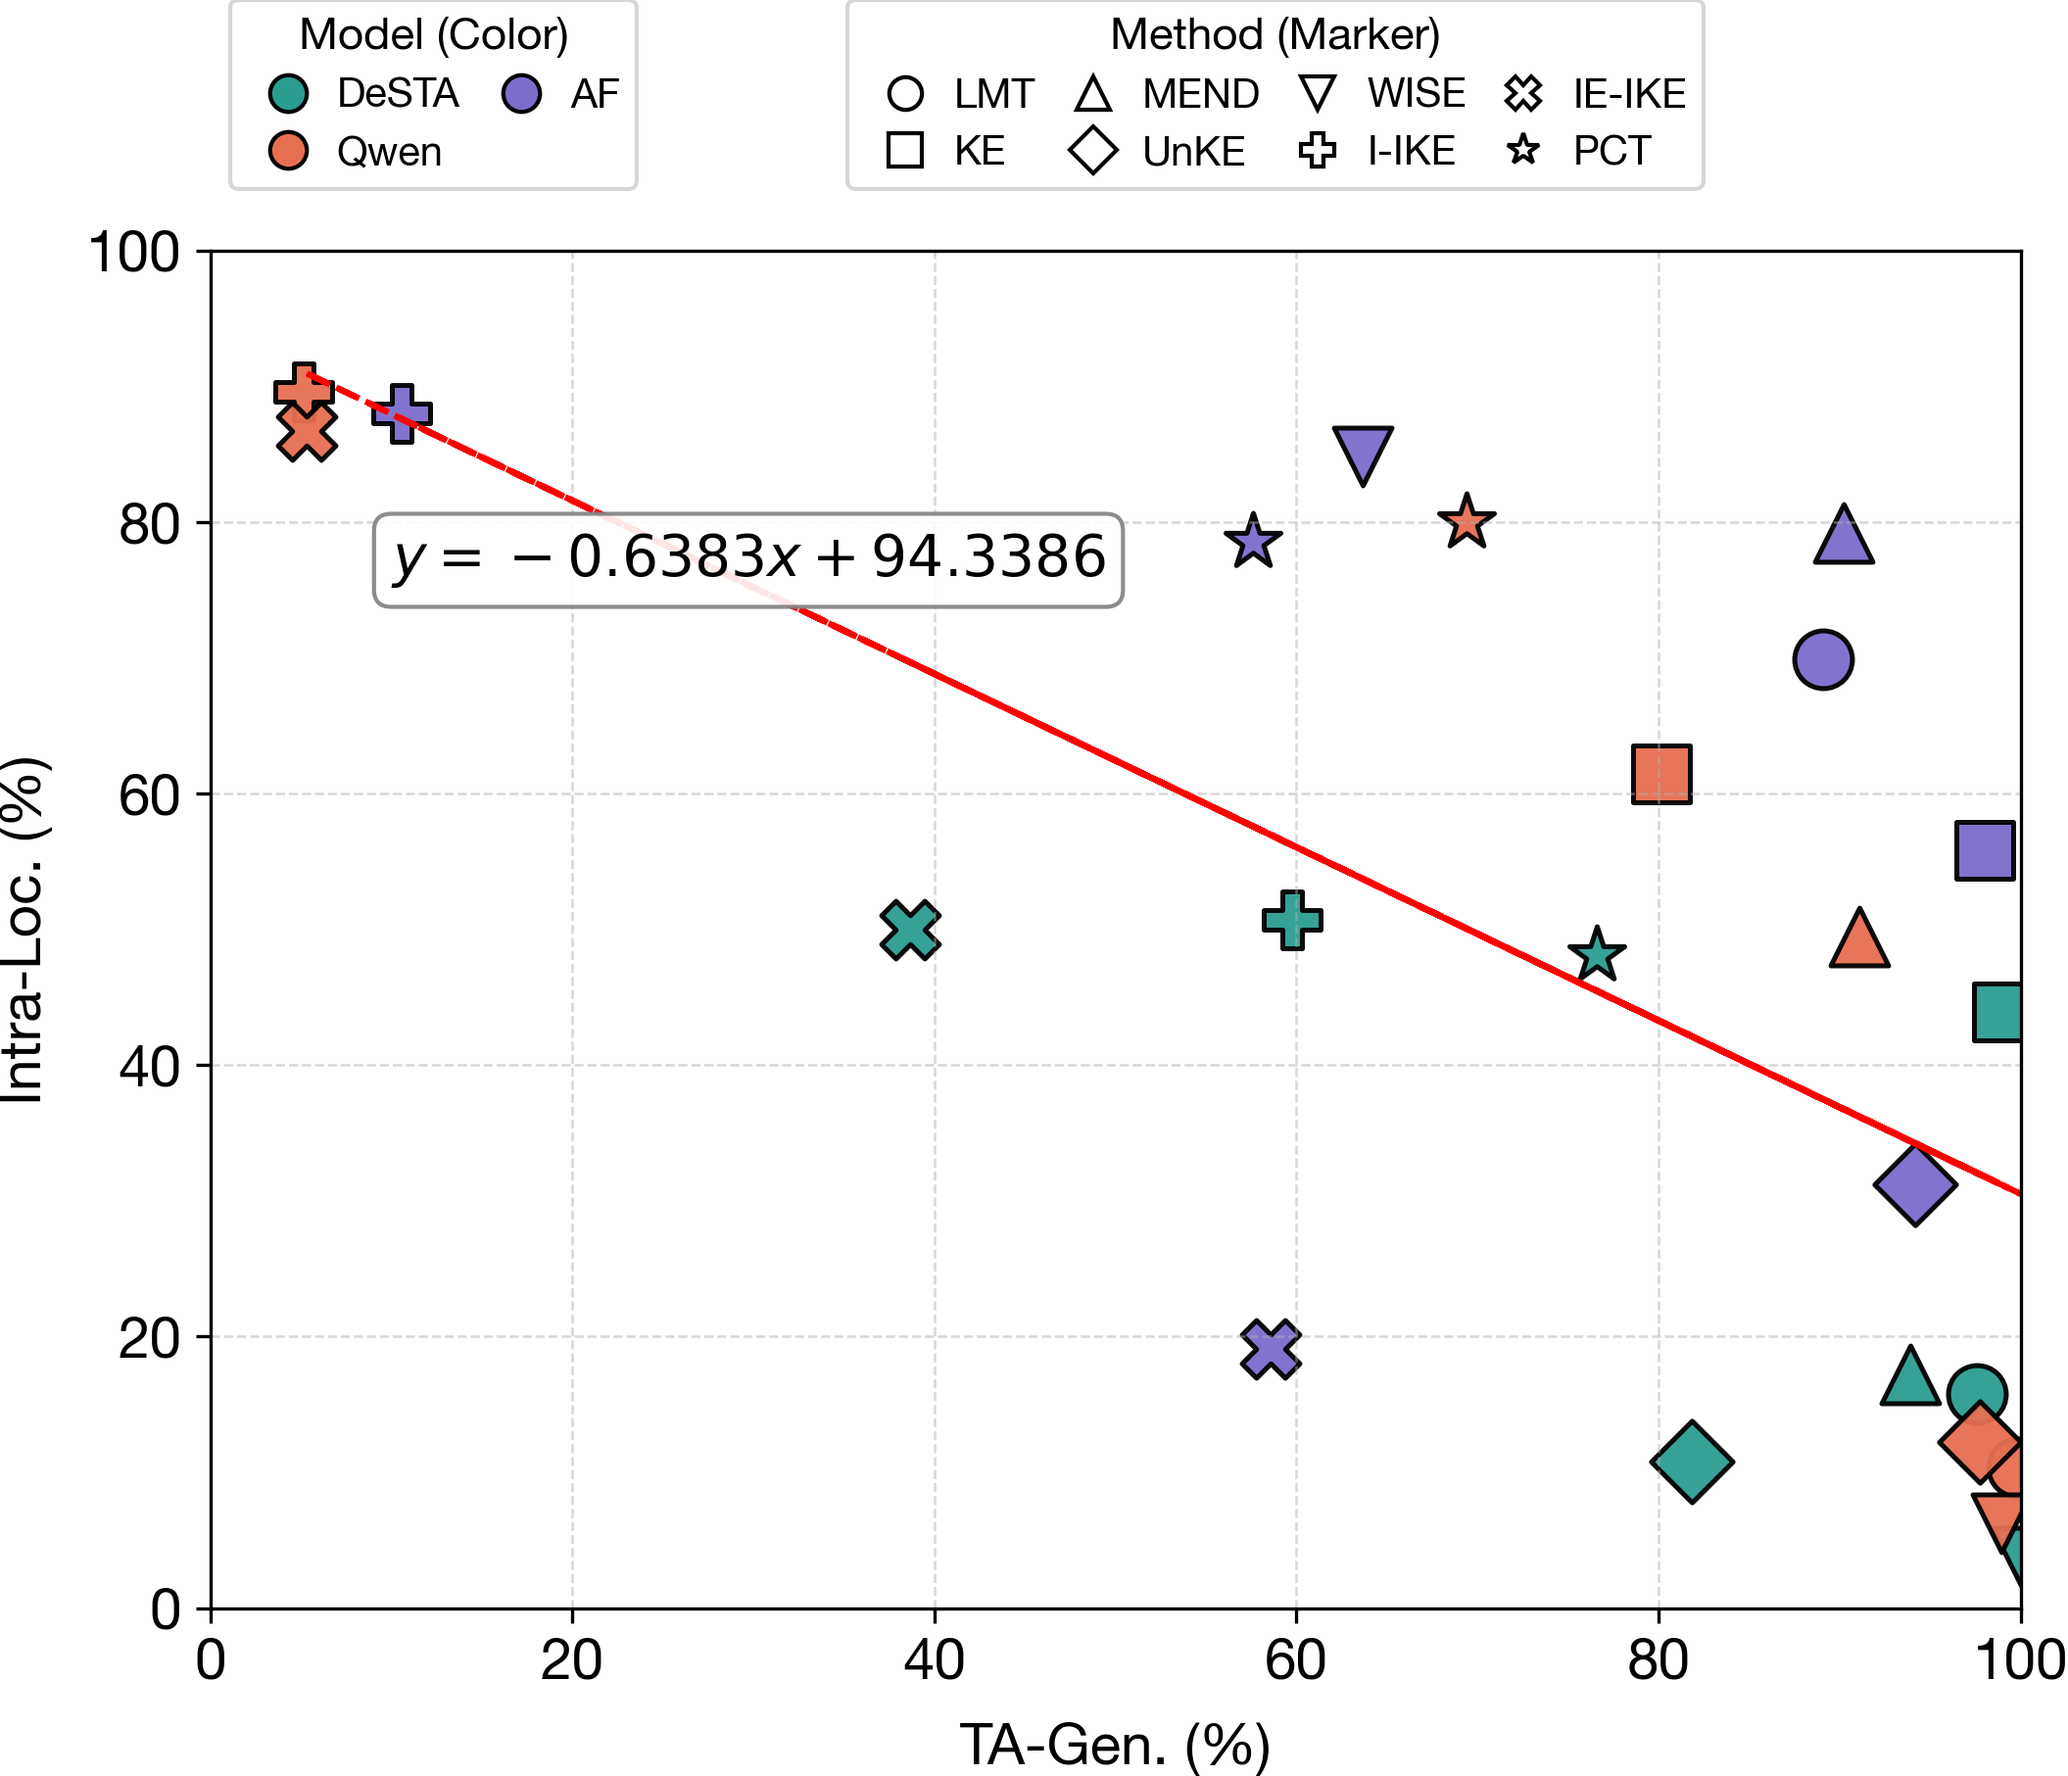
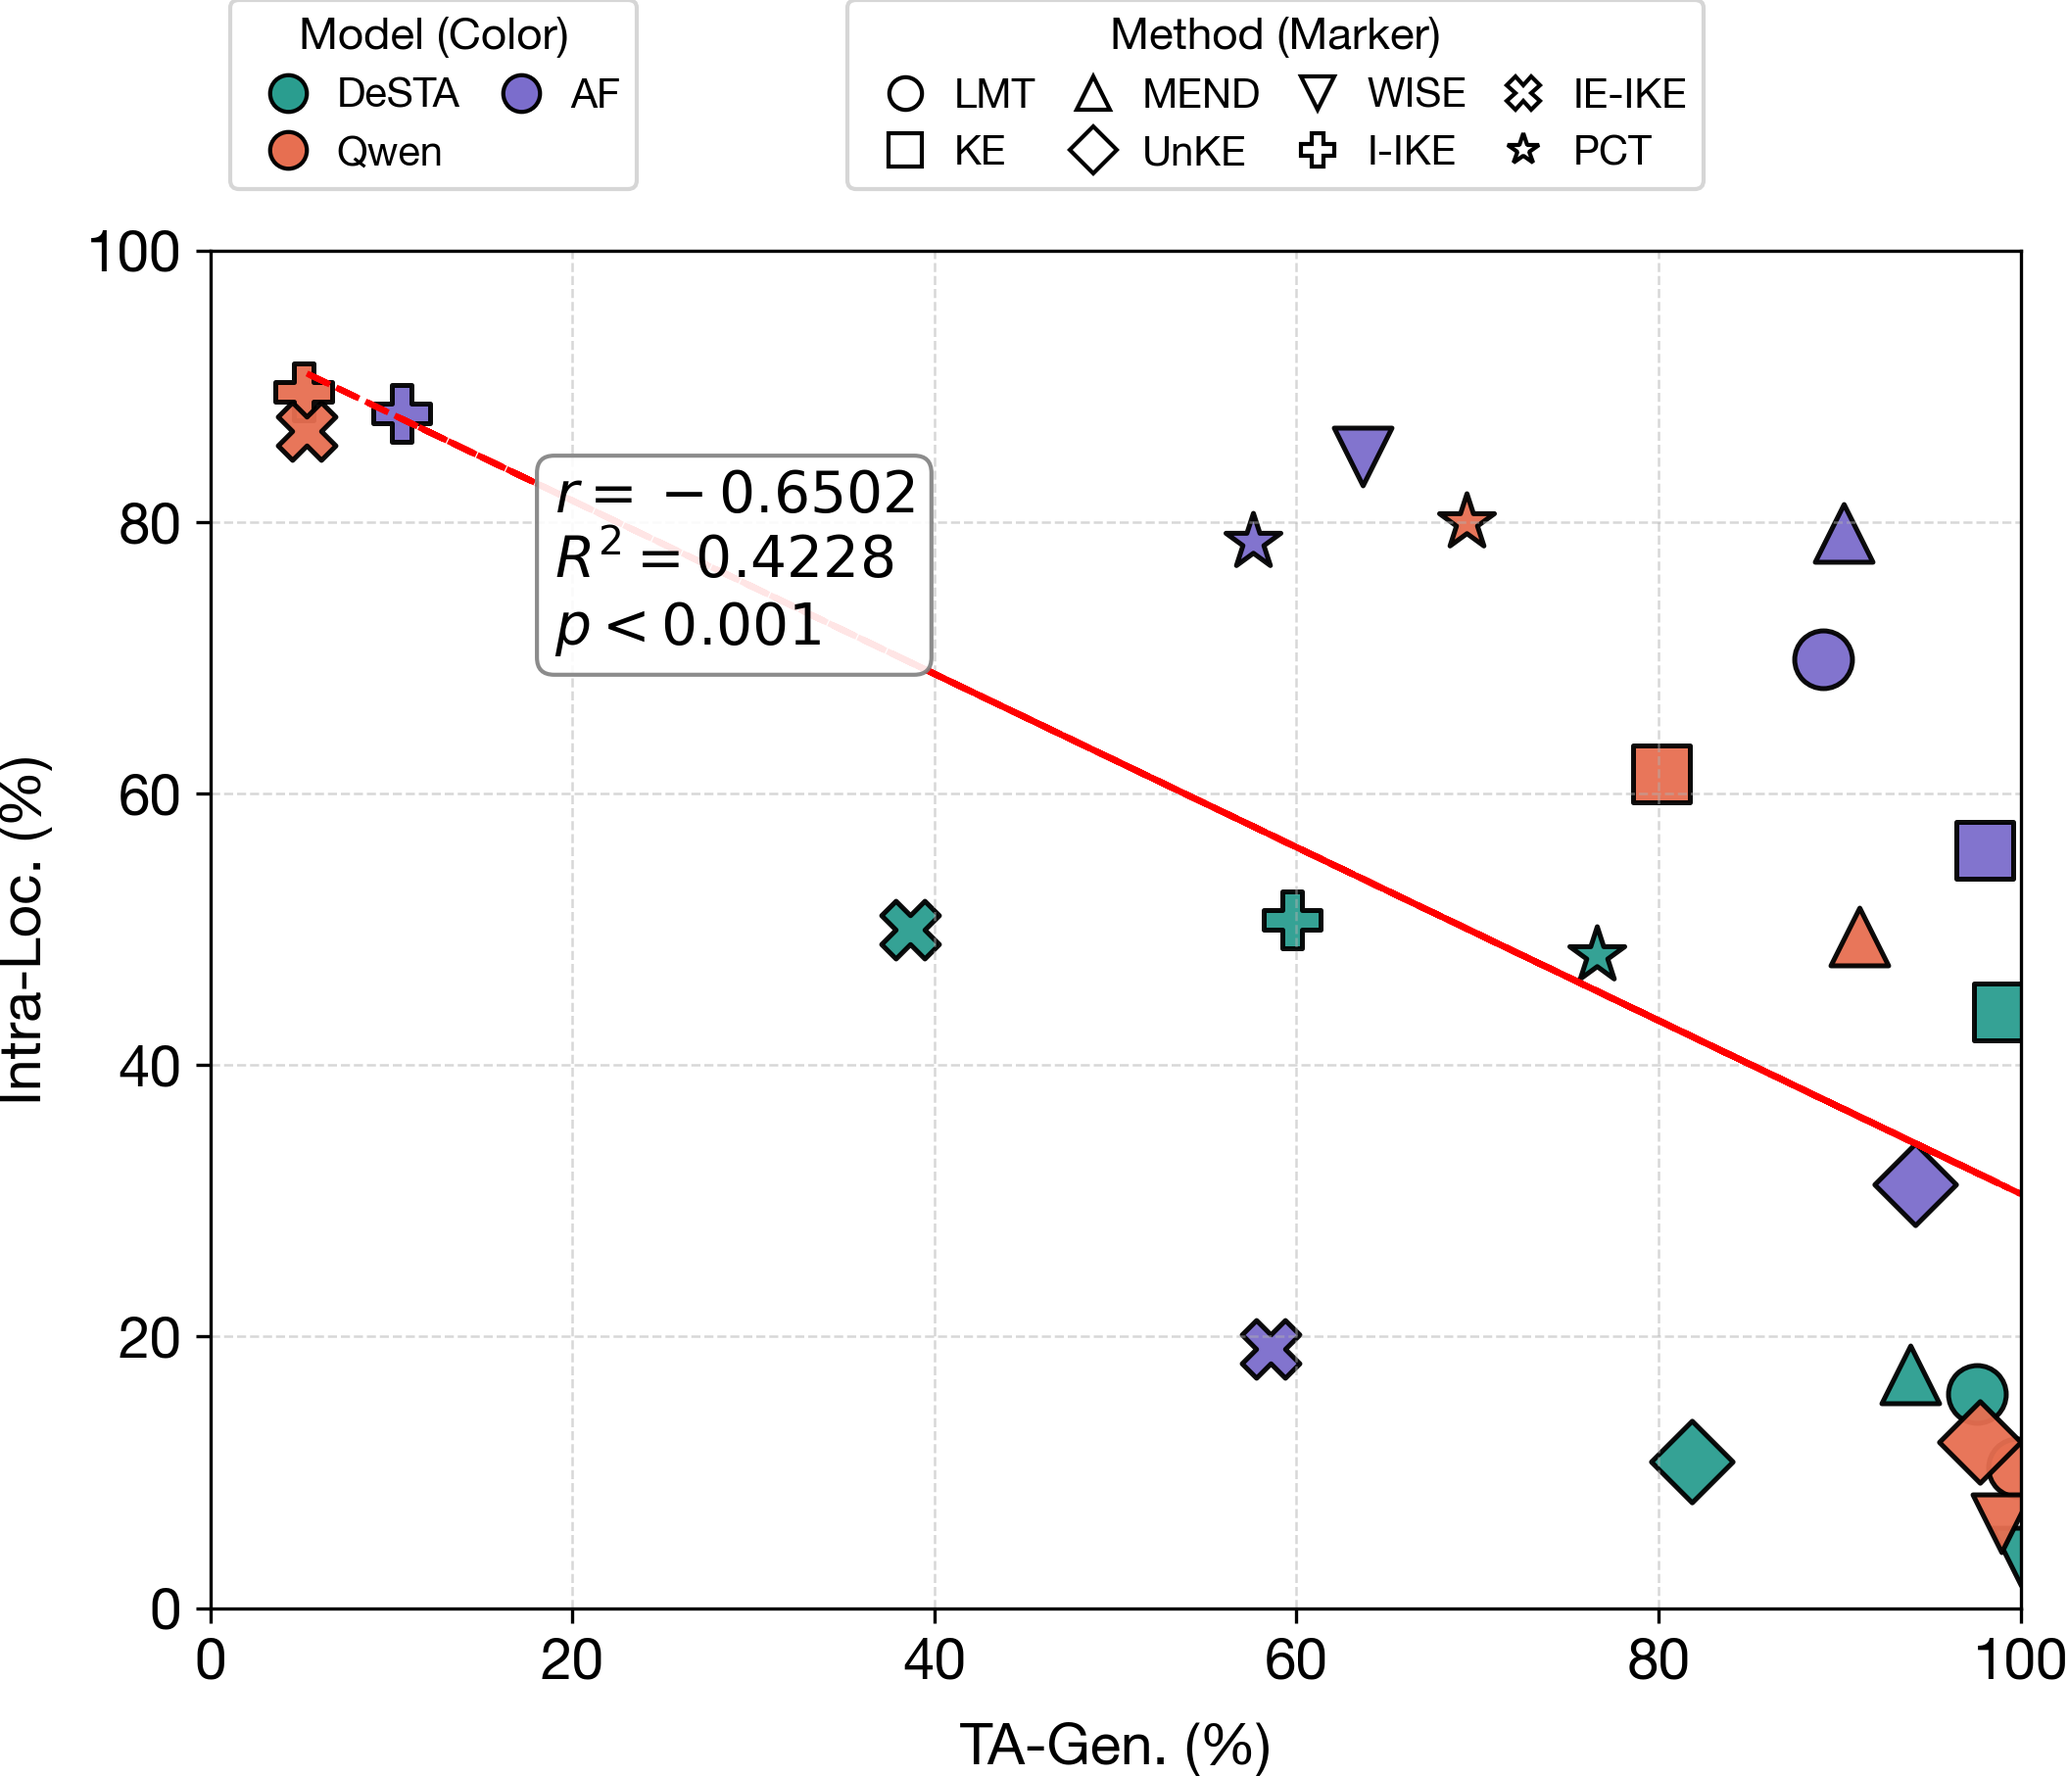
update gen loc tradeoff fig

Changed region(s): [[0.1847, 0.2471, 0.5542, 0.4015]]

diff --git a/model_outputs/paper_utils/plot_scripts/gen3_loc2_scatter.py b/model_outputs/paper_utils/plot_scripts/gen3_loc2_scatter.py
@@ -142,11 +142,19 @@ def main():
 
     r_val, p_val = pearsonr(x, y)
     r_squared = r_val**2
+    print(f"Correlation (r): {r_val:.4f}")
     print(f"R-squared: {r_squared:.4f}")
-    print(f"p-value: {p_val:.4f}")
+    print(f"p-value: {p_val:.4e}")
 
     sign_b = "+" if b >= 0 else "-"
-    eq_text = rf"$y = {m:.4f}x {sign_b} {abs(b):.4f}$"
+
+    if p_val < 0.001:
+        p_str = "< 0.001"
+    else:
+        p_str = f"= {p_val:.3f}"
+
+    stats_text = f"$r = {r_val:.4f}$\n$R^2 = {r_squared:.4f}$\n$p {p_str}$"
+    full_text = stats_text
 
     axis.plot(
         x,
@@ -159,9 +167,9 @@ def main():
 
     # Add the equation text inside the plot
     axis.text(
-        0.1,
-        0.75,
-        eq_text,
+        0.19,
+        0.7,
+        full_text,
         transform=axis.transAxes,
         fontsize=14,
         verticalalignment="bottom",
